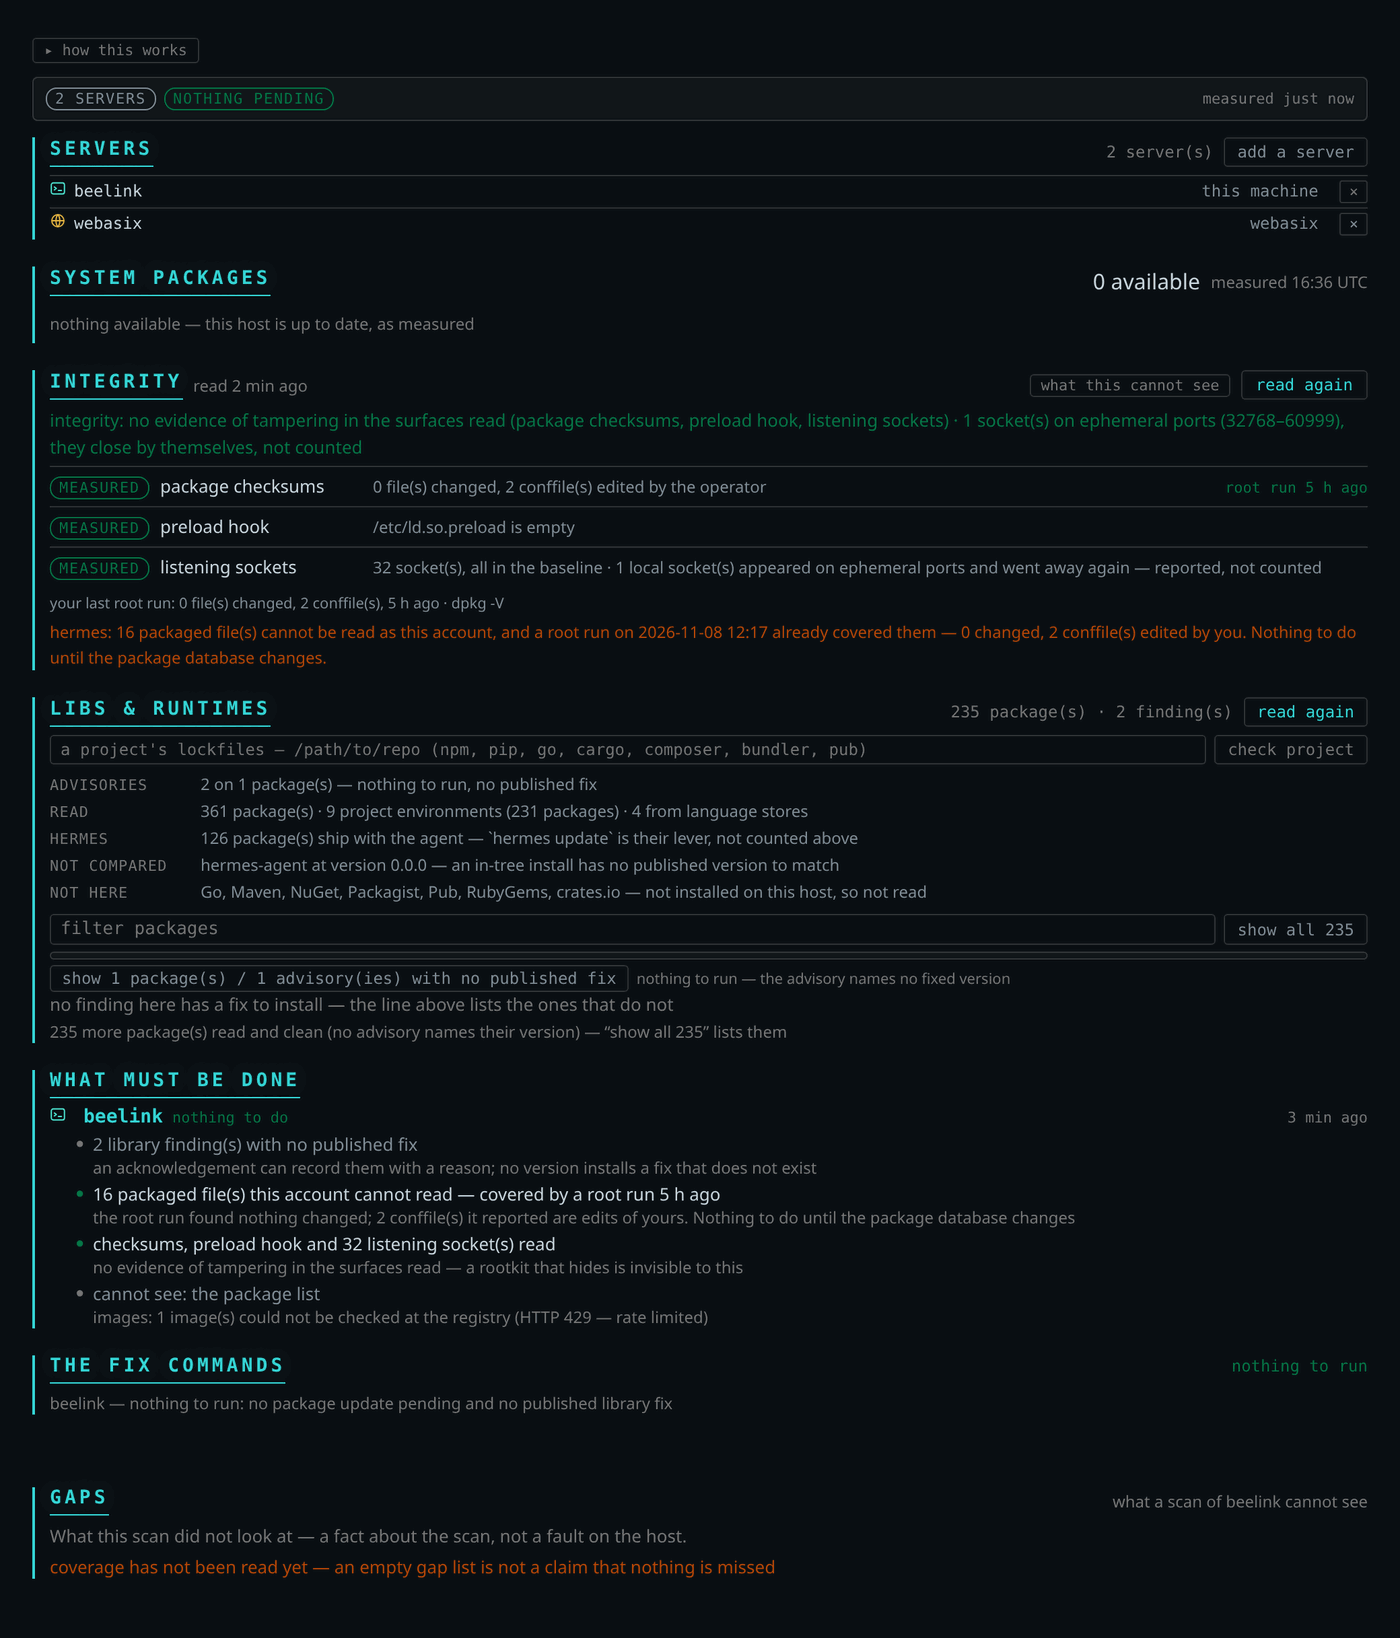
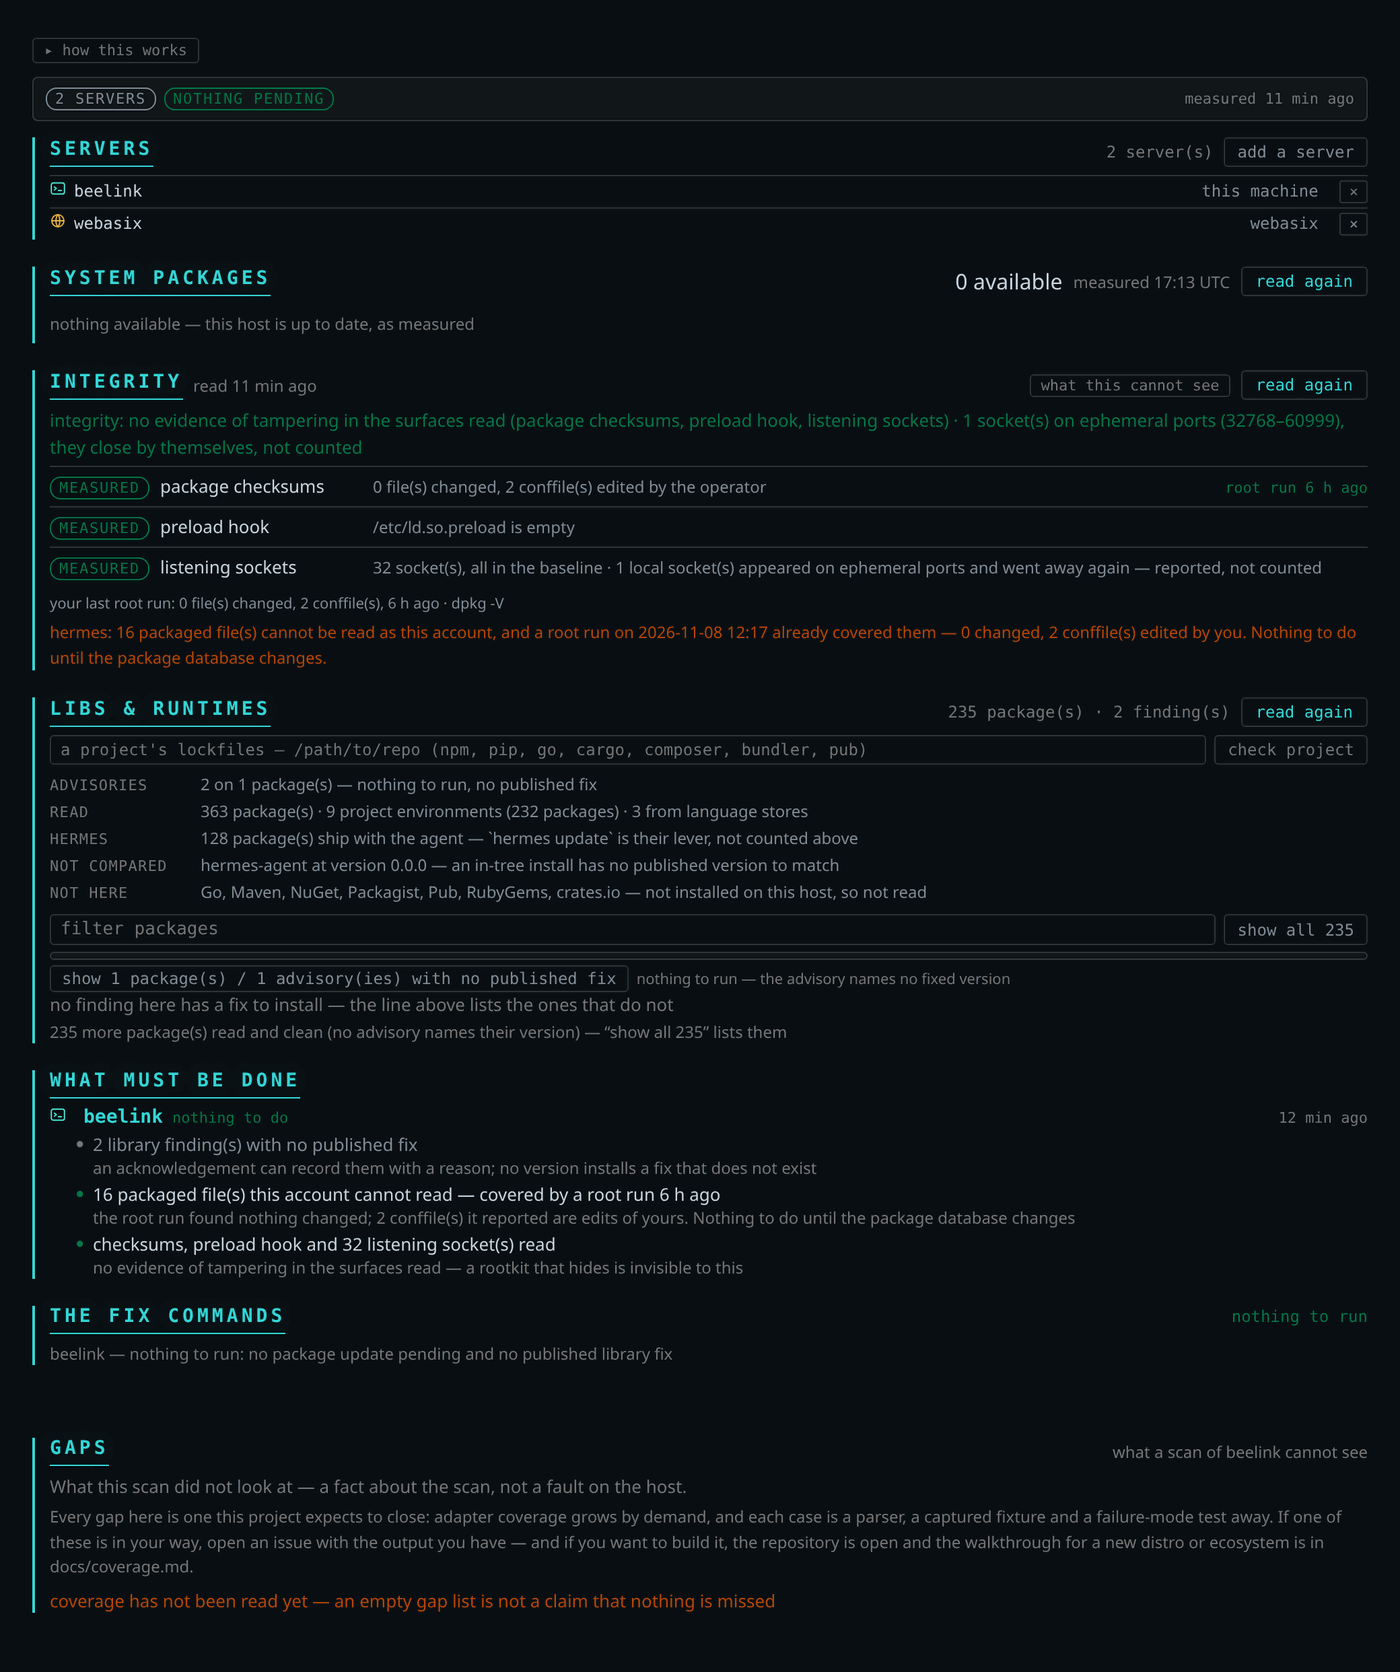
feat(pane): one read control, in all three reading sections — and a note that the gaps are a roadmap
The three sections had drifted, exactly as reported: system packages had **no** control, integrity said
"read again" and animated while it read, and the language stack said "read again" with a breathing dot
that did not match. A control that behaves differently in each section reads as three different
operations.

* one `ReadButton` component, used by all three: `read it` before a reading, `read again` after one,
  `reading 12s` with the same rotating ring in the same place while it runs;
* `system packages` gains the control, and a route to back it: `POST /packages` reads one device and
  **merges the result into the rescan bundle** — `cve_scan` alone writes `last_scan.json`, which the
  sections never read, so a "read again" would have measured and then shown the old numbers;
* the sections keep their own sweep while a full `scan all` is running: the button covers one surface,
  the sweep covers the run.

**The gaps section says where the work happens.** A reader who needs Alpine or zypper coverage was
left with a list of what is missing and no next step. It now says those gaps are a queue: demand sets
the order, an issue with the captured output is enough to start, and the repository is open with the
walkthrough in `docs/coverage.md` — which gained an "Adding a family, or an ecosystem" section
(capture, reader, both halves proven, register). The README carries the same paragraph.
[…]

diff --git a/desktop/plugin.js b/desktop/plugin.js
@@ -427,6 +427,30 @@ function ScanLine({ label }) {
   ])
 }
 
+/**
+ * "Read this surface now" — the same control, the same words, the same animation in every section.
+ *
+ * The three sections had drifted: system packages had no control at all, integrity animated while it
+ * read, and the language stack said "reading" with a breathing dot but nothing that looked like the
+ * other two. A control that behaves differently in each section reads as three different operations.
+ */
+function ReadButton({ busy, hasReading, onRead, title, seconds }) {
+  return jsx('button', {
+    type: 'button',
+    onClick: onRead,
+    disabled: busy,
+    title: title || 'read this surface again',
+    style: {
+      fontFamily: MONO, fontSize: '0.75rem', padding: '3px 10px',
+      cursor: busy ? 'default' : 'pointer',
+      color: busy ? C.faint : C.accent, background: 'transparent',
+      border: '1px solid ' + C.border, borderRadius: '3px'
+    }
+  }, busy
+    ? [jsx('span', { key: 'ring', className: 'ps-ring' }), 'reading' + (seconds ? ' ' + seconds + 's' : '')]
+    : (hasReading ? 'read again' : 'read it'))
+}
+
 /** A small status pill. Colour carries the meaning; the text never relies on colour alone. */
 function chip(text, colour, title) {
   return jsx('span', {
@@ -837,7 +861,7 @@ function HostsPanel({ onChanged, startOpen, initialTest, initialHosts, onSelect,
 // --------------------------------------------------------------------------- UPDATES
 
 /** The raw update list for the selected host — every package, searchable, copyable. */
-function UpdatesPanel({ entry, hostLabel, scanning }) {
+function UpdatesPanel({ entry, hostLabel, scanning, busy, seconds, onRead }) {
   const [query, setQuery] = useState('')
   const rows = (entry && entry.pending) || []
   const total = (entry && entry.pending_count) || 0
@@ -860,6 +884,10 @@ function UpdatesPanel({ entry, hostLabel, scanning }) {
         hostLabel ? total + ' available' : '—'),
       jsx('span', { style: { fontSize: '0.75rem', color: C.faint } },
         entry && entry.measured_at ? 'measured ' + entry.measured_at.replace('T', ' ').slice(11, 16) + ' UTC' : ''),
+      jsx(ReadButton, { busy: busy, hasReading: !!(entry && entry.measured_at), seconds: seconds,
+                        onRead: onRead, title: 'Reads the package list again: what the archive would '
+                          + 'install, the kernel against the newest installable, and the advisory that '
+                          + 'names each exact version' }),
       rows.length && commandBlock
         ? jsx(Copy, { text: commandBlock, label: 'copy the commands',
                       what: 'the upgrade commands for ' + (hostLabel || 'this machine') })
@@ -867,7 +895,7 @@ function UpdatesPanel({ entry, hostLabel, scanning }) {
       rows.length ? jsx(Copy, { text, label: 'copy list', what: 'the package list' }) : null
     ]),
     // this section's own sweep: the top line says a run is going, this one says which part is
-    scanning
+    busy || scanning
       ? jsx(ScanLine, { label: 'reading the package list — what the archive would install, and which '
                              + 'advisory names that exact version' })
       : null,
@@ -1196,18 +1224,9 @@ function LanguagesPanel({ libraries, onCheck, busy, scanning }) {
         // no second sentence: the header already says "nothing to run" and why. Saying it twice in
         // the same row is how a screen with nothing to do reads like a to-do list.
         : null,
-      jsx('button', {
-        type: 'button',
-        onClick: () => onCheck(),
-        disabled: busy,
-        title: 'Reads the global npm tree and the pip environment on PATH, then asks osv.dev',
-        style: {
-          fontFamily: MONO, fontSize: '0.75rem', padding: '3px 9px', cursor: busy ? 'default' : 'pointer',
-          color: busy ? C.faint : C.accent, background: 'transparent',
-          border: '1px solid ' + C.border, borderRadius: '3px'
-        }
-      }, busy ? [jsx('span', { key: 'dot', className: 'ps-dot' }), 'reading']
-         : libraries ? 'read again' : 'read it')
+      jsx(ReadButton, { busy: busy, hasReading: !!libraries, onRead: () => onCheck(),
+                        title: 'Reads the machine\'s language stores and every virtualenv, then asks '
+                          + 'osv.dev for advisories naming those exact versions' })
     ]),
     busy || scanning
       ? jsx(ScanLine, {
@@ -1683,20 +1702,9 @@ function IntegrityPanel({ reading, busy, seconds, onRead, onRebaseline, onImport
           border: '1px solid ' + C.border, borderRadius: '3px'
         }
       }, limits ? 'hide the limits' : 'what this cannot see'),
-      jsx('button', {
-        type: 'button',
-        onClick: () => onRead(),
-        disabled: busy,
-        title: 'verifies package checksums, the preload hook and the listening sockets — about a '
-               + 'minute on a full package database',
-        style: {
-          fontFamily: MONO, fontSize: '0.75rem', padding: '3px 10px', cursor: busy ? 'default' : 'pointer',
-          color: busy ? C.faint : C.accent, background: 'transparent',
-          border: '1px solid ' + C.border, borderRadius: '3px'
-        }
-      }, busy
-        ? [jsx('span', { key: 'ring', className: 'ps-ring' }), 'reading' + (seconds ? ' ' + seconds + 's' : '')]
-        : (state ? 'read again' : 'read it'))
+      jsx(ReadButton, { busy: busy, hasReading: !!state, onRead: () => onRead(), seconds: seconds,
+                        title: 'verifies package checksums, the preload hook and the listening '
+                          + 'sockets — about a minute on a full package database' })
     ]),
     limits
       ? jsx('div', {
@@ -2364,6 +2372,13 @@ function GapsPanel({ coverage, selected }) {
     ]),
     jsx('div', { style: { fontSize: '0.8125rem', color: C.faint, lineHeight: 1.45, marginBottom: '4px' } },
       'What this scan did not look at — a fact about the scan, not a fault on the host.'),
+    // The gaps are a roadmap, not a dead end: say where the work happens, so a reader who needs one of
+    // these knows the next step is an issue rather than a workaround.
+    jsx('div', { style: { fontSize: '0.75rem', color: C.faint, lineHeight: 1.55, marginBottom: '6px' } },
+      'Every gap here is one this project expects to close: adapter coverage grows by demand, and each '
+      + 'case is a parser, a captured fixture and a failure-mode test away. If one of these is in your '
+      + 'way, open an issue with the output you have — and if you want to build it, the repository is '
+      + 'open and the walkthrough for a new distro or ecosystem is in docs/coverage.md.'),
     blocked.length
       ? jsxs('div', { style: { marginBottom: '6px' } }, [
           jsx('div', { style: { fontSize: '0.75rem', color: C.danger, letterSpacing: '0.08em', textTransform: 'uppercase', marginBottom: '2px' } },
@@ -2402,7 +2417,7 @@ function GapsPanel({ coverage, selected }) {
 
 // --------------------------------------------------------------------------- root
 
-export { VerdictBar, HostsPanel, TodoPanel, CommandsPanel, ScanButton, HowItWorks, ScanLine,
+export { VerdictBar, HostsPanel, TodoPanel, CommandsPanel, ScanButton, HowItWorks, ScanLine, ReadButton,
          orderedHosts,
          todoRows, commandsForHost,
          fixableRows, UpdatesPanel, LanguagesPanel, IntegrityPanel, GapsPanel,
@@ -2516,6 +2531,9 @@ export function PatchSentinel({ compact }) {
     })
   }, [])
   const [libBusy, setLibBusy] = useState(false)
+  // system packages, read on its own — same control, same animation as the other two sections
+  const [pkgBusy, setPkgBusy] = useState(false)
+  const [pkgSeconds, setPkgSeconds] = useState(0)
   // a project scan is a different question ("my app's dependencies"), so it is a separate answer kept
   // apart from the machine-wide one instead of overwriting it
   const [libProject, setLibProject] = useState(null)
@@ -2746,6 +2764,30 @@ export function PatchSentinel({ compact }) {
     }
   }, [])
 
+  const readPackages = useCallback(async () => {
+    if (!selected) return
+    setPkgBusy(true)
+    setPkgSeconds(0)
+    const started = Date.now()
+    try {
+      await call('/packages', { method: 'POST', body: { host: selected } })
+      for (let tick = 0; tick < 180; tick += 1) {
+        await new Promise((resolve) => { setTimeout(resolve, 1000) })
+        setPkgSeconds(Math.round((Date.now() - started) / 1000))
+        let job = null
+        try { job = ((await call('/jobs')) || {}).packages || null } catch (err) { continue }
+        if (job && !job.running) break
+      }
+      // the route merges the reading into the bundle, so reload it rather than guessing where it went
+      await loadBundle()
+    } catch (err) {
+      // the last reading stays on screen, labelled with its age
+    } finally {
+      setPkgBusy(false)
+      setPkgSeconds(0)
+    }
+  }, [selected, loadBundle])
+
   const where = selected && hosts[selected] ? hosts[selected].where : null
 
   return jsxs('div', {
@@ -2880,7 +2922,8 @@ export function PatchSentinel({ compact }) {
           + ' · the button above reads this device only; each device keeps its own last reading'
         : 'click a device name above to choose whose readings these are'),
     jsx(UpdatesPanel, { entry: hosts[selected] || null, hostLabel: selected,
-                        scanning: busy && stage === 'scan' }),
+                        scanning: busy && stage === 'scan',
+                        busy: pkgBusy, seconds: pkgSeconds, onRead: readPackages }),
     jsx(IntegrityPanel, {
       reading: deviceIntegrity(bundle, selected), busy: busy && stage === 'integrity',
       seconds: busy && stage === 'integrity' ? seconds : 0,

diff --git a/tests/test_dashboard_api.py b/tests/test_dashboard_api.py
@@ -170,6 +170,39 @@ class DashboardRoutes(unittest.TestCase):
         self.assertIn("boom", job["error"])
         self.assertIsNone(job["result"])
 
+    def test_reading_one_surface_writes_it_back_into_the_bundle(self):
+        """`POST /packages` must land where the pane reads, not in a file the sections never open.
+
+        `cve_scan` alone answers into `last_scan.json`; the sections render from the rescan bundle. A
+        route that forgot to merge measured the machine and then showed the previous numbers.
+        """
+        module = self.module
+        original = module.tools.cve_scan
+        payload = {"tool": "cve_scan", "exit_code": 1,
+                   "hosts": {"testbox": {"label": "testbox", "adapter": "apt", "pending_count": 3,
+                                         "measured_at": "2026-11-08T12:00:00Z",
+                                         "where": {"kind": "local"}}},
+                   "blind": []}
+
+        def fake(args=None, **kwargs):
+            import json
+            return json.dumps(payload)
+
+        module.tools.cve_scan = fake
+        try:
+            started = self.client.post(self.base + "/packages", json={"host": "testbox"}).json()
+            self.assertTrue(started["started"])
+            job = self.follow("packages", 60)
+        finally:
+            module.tools.cve_scan = original
+        self.assertIsNone(job.get("error"))
+        bundle = self.client.get(self.base + "/rescan").json().get("bundle") or {}
+        device = (bundle.get("devices") or {}).get("testbox") or {}
+        self.assertEqual((device.get("scan") or {}).get("hosts", {}).get("testbox", {})
+                         .get("pending_count"), 3,
+                         "the reading never reached the bundle the section renders")
+        self.assertEqual((bundle.get("scan") or {}).get("exit_code"), 1)
+
     @unittest.skipUnless(os.environ.get("PATCH_SENTINEL_TEST_SCAN") == "1",
                          "set PATCH_SENTINEL_TEST_SCAN=1 to run a real scan")
     def test_a_real_scan_then_a_stored_status(self):

diff --git a/dashboard/plugin_api.py b/dashboard/plugin_api.py
@@ -139,6 +139,42 @@ def scan(body: dict | None = None) -> dict:
     return _start("scan", tools.cve_scan, args)
 
 
+def _packages_into_bundle(args: dict) -> str:
+    """One surface, refreshed on demand, written back into the bundle the pane renders.
+
+    `cve_scan` alone answers into the loose `last_scan.json`, which the pane does not read for its
+    sections — so a "read again" on system packages would have measured and then shown the old numbers.
+    The result is merged into the per-device block, and nothing else in the bundle is touched.
+    """
+    label = str(args.get("host") or tools._local_label())
+    raw = tools.cve_scan({"host": label})
+    payload = json.loads(raw) or {}
+    data_dir = str(tools._settings.get("data_dir") or store.data_dir())
+    bundle = rescan_bundle.read(data_dir) or {}
+    devices = bundle.get("devices") if isinstance(bundle.get("devices"), dict) else {}
+    device = devices.get(label) if isinstance(devices.get(label), dict) else {}
+    device["scan"] = payload
+    devices[label] = device
+    bundle["devices"] = devices
+    hosts = (payload or {}).get("hosts") or {}
+    if label in hosts:
+        bundle["scan"] = {"tool": "cve_scan", "hosts": {label: hosts[label]},
+                          "blind": [entry for entry in (payload.get("blind") or [])
+                                    if entry.get("host") in (label, None)],
+                          "exit_code": payload.get("exit_code", 0), "measured_at": time.time()}
+    rescan_bundle.write(data_dir, bundle)
+    return raw
+
+
+@router.post("/packages")
+def packages_start(body: dict | None = None) -> dict:
+    """Read the package list for one device now — the "read again" of the system-packages section."""
+    args = {}
+    if body and body.get("host"):
+        args["host"] = str(body["host"])
+    return _start("packages", _packages_into_bundle, args)
+
+
 @router.get("/rescan")
 def rescan_cached() -> dict:
     """The last "rescan all" bundle — every surface, with how long each stage took.

diff --git a/docs/coverage.md b/docs/coverage.md
@@ -179,3 +179,25 @@ SDK container.
 
 Where the advisory carries its own **Workarounds** section, that text is shown with the finding: the
 vendor's temporary mitigation, quoted rather than invented.
+
+## Adding a family, or an ecosystem
+
+Every row above that says *not verified* is a queue, not a decision: the case is missing because nobody
+has sent the output yet. The work is the same shape every time, and small.
+
+1. **Capture the output** on a real machine, verbatim, into `tests/fixtures/` — `zypper -q lu`,
+   `pacman -Qkk`, `apk audit`, `dotnet list package`, whatever reader you are adding. A capture is worth
+   more than a specification: the parser is written against bytes the tool actually printed.
+2. **Write the reader** in `patch_sentinel/sources/` (or `sources/adapters/` for a package manager).
+   It returns rows, never exceptions, and every failure is an outcome: `missing`, `unreadable`,
+   `unmeasured` — an empty list from a tool that did not run is the false clean this project exists to
+   avoid.
+3. **Prove both halves.** A known-good capture reads as expected; a malformed or refused one produces
+   its own state rather than a clean or a crash. `tests/test_adapters.py` and `tests/test_sources.py`
+   are where the existing ones live.
+4. **Register it** in `sources/dispatch.py` so the host's `/etc/os-release` reaches it, and say in the
+   coverage answer what the new reader covers and what it still cannot see.
+
+Nothing in this project is closed by policy: a family is unverified because no capture exists yet. If
+you need one, open an issue with the output you have — real demand decides the order, and a pull
+request is reviewed on the same terms as the rest of the tree.

diff --git a/README.md b/README.md
@@ -112,6 +112,23 @@ complete scan.
 The four rows above Debian's caveat were read by copying the plugin onto the VM and running it with the
 distro's own `python3` — the arrangement a fresh machine has, without Hermes.
 
+### Where this stops, and how it grows
+
+The rows marked **not verified** are not a disclaimer, they are a queue. Coverage grows by demand: each
+distro family or ecosystem is a parser, a captured fixture and a failure-mode test, and the gap list in
+the pane is the roadmap.
+
+- **If one of these is in your way**, open an issue with the output you have — a `zypper -q lu`, a
+  `pacman -Qkk`, an Alpine `apk version` — and the case gets built against it. Real demand decides the
+  order.
+- **If you would rather build it**, the repository is open and the work is well-bounded:
+  `docs/coverage.md` describes how every surface was proven and what a capture looks like, and
+  `tests/fixtures/` holds the ones already read. A new family is a reader, a fixture, and the test that
+  proves it fails loudly when the source changes shape.
+
+Nothing is missing because it was decided against; it is missing because nobody has sent the output
+yet.
+
 ## No credential path
 
 Registry and advisory reads are anonymous; remote hosts use **your own SSH agent**, so `ssh` sees the key
